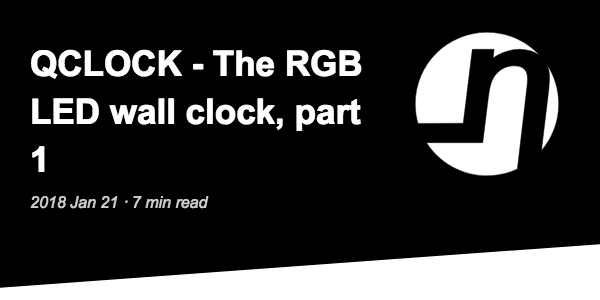
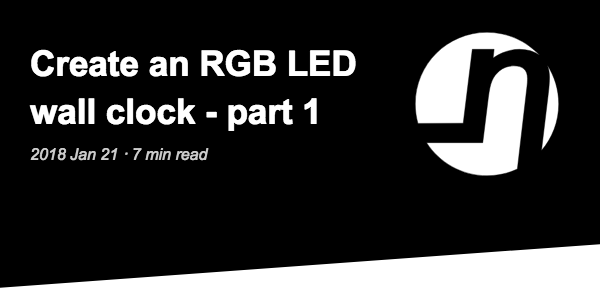
update title & social card

diff --git a/source/_posts/20180121-qclock-the-led-rgb wall-clock-part-1.md b/source/_posts/20180121-qclock-the-led-rgb wall-clock-part-1.md
@@ -1,5 +1,5 @@
 ---
-title: QCLOCK - The RGB LED wall clock, part 1
+title: Create an RGB LED wall clock - part 1
 description: "Guide to make your own RGB LED wall clock, using a Tessel, Neopixels and JavaScript - first, the hardware part"
 categories:
 - writing
